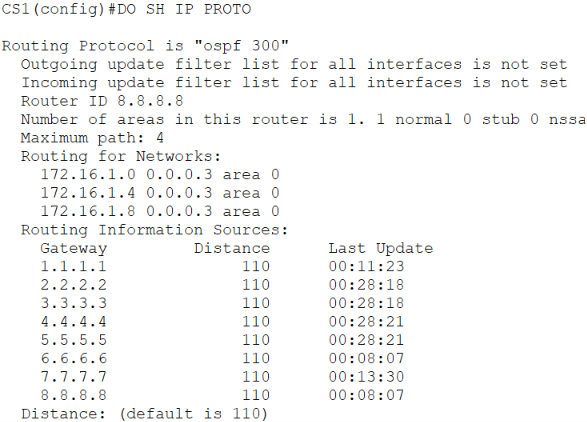
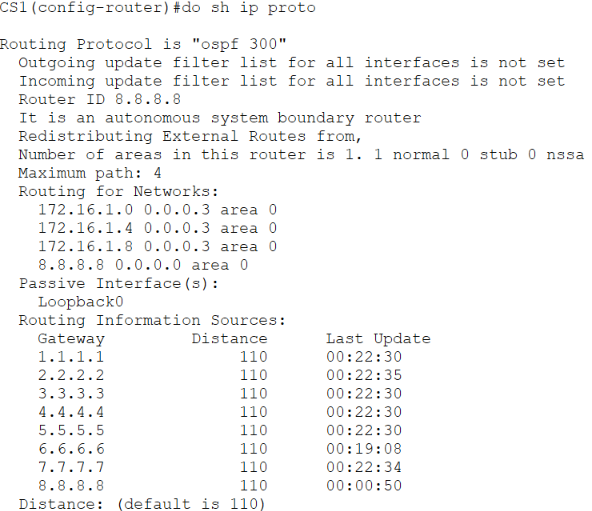
vault backup: 2026-11-28 10:18:48

Changed region(s): [[0.0, 0.0, 1.0, 1.0], [0.552, 0.5545, 0.7359, 0.9858]]

diff --git a/CCNA Lab 3/CCNA Lab 3.md b/CCNA Lab 3/CCNA Lab 3.md
@@ -41,6 +41,9 @@
 | SNMP-NMS-1 | Simple Network Management Protocol NMS |
 | FTP/TFP    | `[Trivial]`File transfer Protocol      |
 | DNS        | Domain Name System                     |
+| ISP        | ISP Router                             |
+| CER        | Customer Edge Router                   |
+
 
 
 
@@ -314,7 +317,19 @@ The spanning tree protocol that is being used is the default spanning tree proto
 | CR1         | 1.1.1.1    | 255.255.255.255 | Loopback 0     |
 | CR2         | 6.6.6.6    | 255.255.255.255 | Loopback 0     |
 
+### Area 0 IP configuration (ISP CS1)
 
+| Device name | IP address  | subnet mask     | Interface name |
+| ----------- | ----------- | --------------- | -------------- |
+| CS1         | 172.16.1.13 | 255.255.255.252 | G1/1/3         |
+| CER         | 172.16.1.14 | 255.255.255.252 | G0/1/0         |
+
+### IP configuration (ISP CER)
+
+| Device name | IP address  | subnet mask     | Interface name |
+| ----------- | ----------- | --------------- | -------------- |
+| ISP         | 203.0.113.1 | 255.255.255.252 | G0/0           |
+| CER         | 203.0.113.2 | 255.255.255.252 | G0/0           |
 
 >[!NOTE]
 >- The **G0/1 interfaces** of **DSW1, DSW2, DSW3 and DSW4**
@@ -401,6 +416,12 @@ This is configured with the group number 50
 #### CS1 
 <img src="CS1-OSPF.png" width="auto">
 
+
+>[!NOTE]
+>**CS1** has been configured with the following command given below 
+>```
+>(config-router) # default-information orginate
+>```
 #### CONSW1
 <img src="CONSW1-OSPF.png" width="auto">
 
@@ -412,6 +433,9 @@ This is configured with the group number 50
 
 #### DSW4
 <img src="DSW4-OSPF.png" width="auto">
+
+
+
 
 ---
 ## IP services
@@ -520,6 +544,15 @@ This is configured with the group number 50
 >
 >commands 
 >```
+>(config)# ntp server 172.16.1.13 key 2
+>(config)# ntp authentication-key 2 md5 master-server
+>(config)# ntp trusted-key 2
+>```
+>
+>The above commands has been configured on CER
+>
+>commands 
+>```
 >(config)# ntp authenticate
 >(config)# ntp authentication-key 2 md5 master-server
 >(config)# ntp trusted-key 2
@@ -611,6 +644,21 @@ This is configured with the group number 50
 >
 >The above commands have been configured on all of the networking devices 
 
+### Configuring the password on the ISP router 
+
+commands 
+>```
+>(config)# service password-encryption
+>(config)# enable password cisco
+>(config)# enable secret ccna
+>(config)# username verizon secret ccna 
+>(config)# line console 0
+>(config-line)# login local
+>```
+>
+>The above command has been configured on the ISP 
+
+
 ---
 ### Access Control List Configurations 
 
@@ -670,3 +718,38 @@ This is configured with the group number 50
 >###### configurations
 ><img src="ACL-VLAN50-IN.png" width="auto">
 
+---
+### Configuring the IP NAT translations 
+
+>[!NOTE]
+>- The configurations has been performed on the CS1 device 
+
+>[!WARNING]
+>- Initially this failed due to packet tracers limitations of the multilayered switch not being able to support the **no switchport command**
+>
+>**The Fix**
+>- This was to simply add another router **CE (Customer Edge Router) to the network** 
+
+>[!NOTE]
+>The following commands were performed on CER
+>
+>commands
+> 
+>```
+>CER(config-router)#int G0/1/0
+>CER(config-if)#ip nat inside
+>CER(config-if)#int G0/0
+>CER(config-if)#ip nat outside
+>```
+>
+>NAT ACL configured on CER is given below 
+><img src="CER-NAT-ACL.png" width="auto">
+>
+>To apply the NAT to the outside interface the following command has been configured
+> 
+>NAT configuration type : PAT (Port Address translation)
+>
+>command 
+>```
+>CER(config)#ip nat inside source list NAT_ACL interface G0/0 overload
+>```
